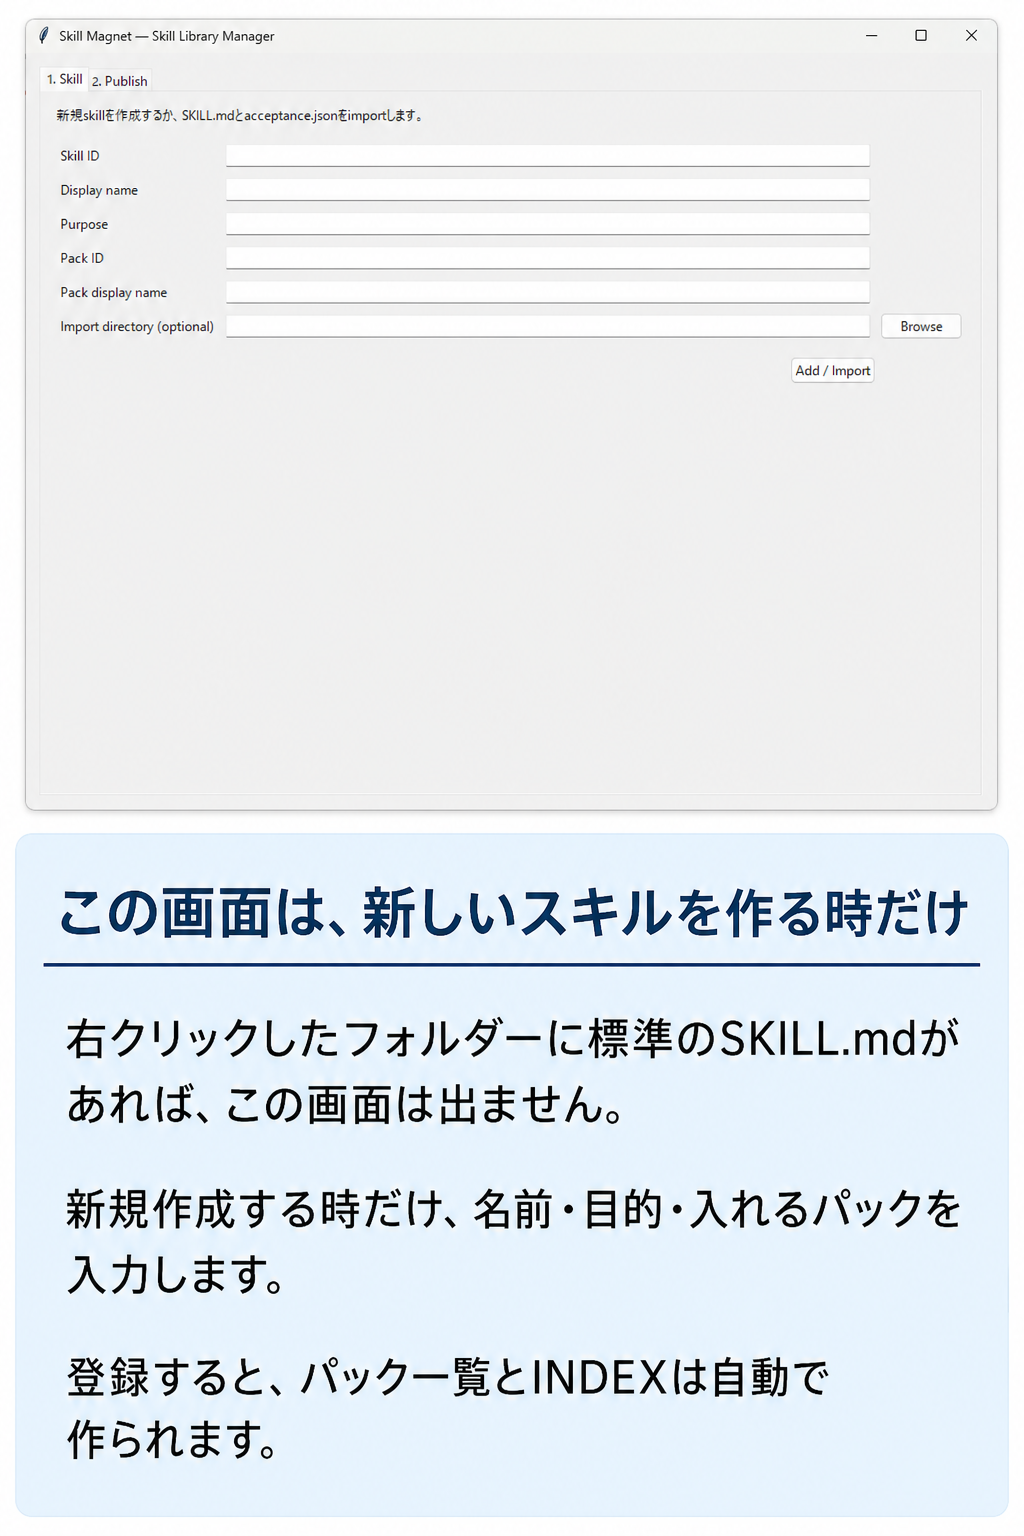
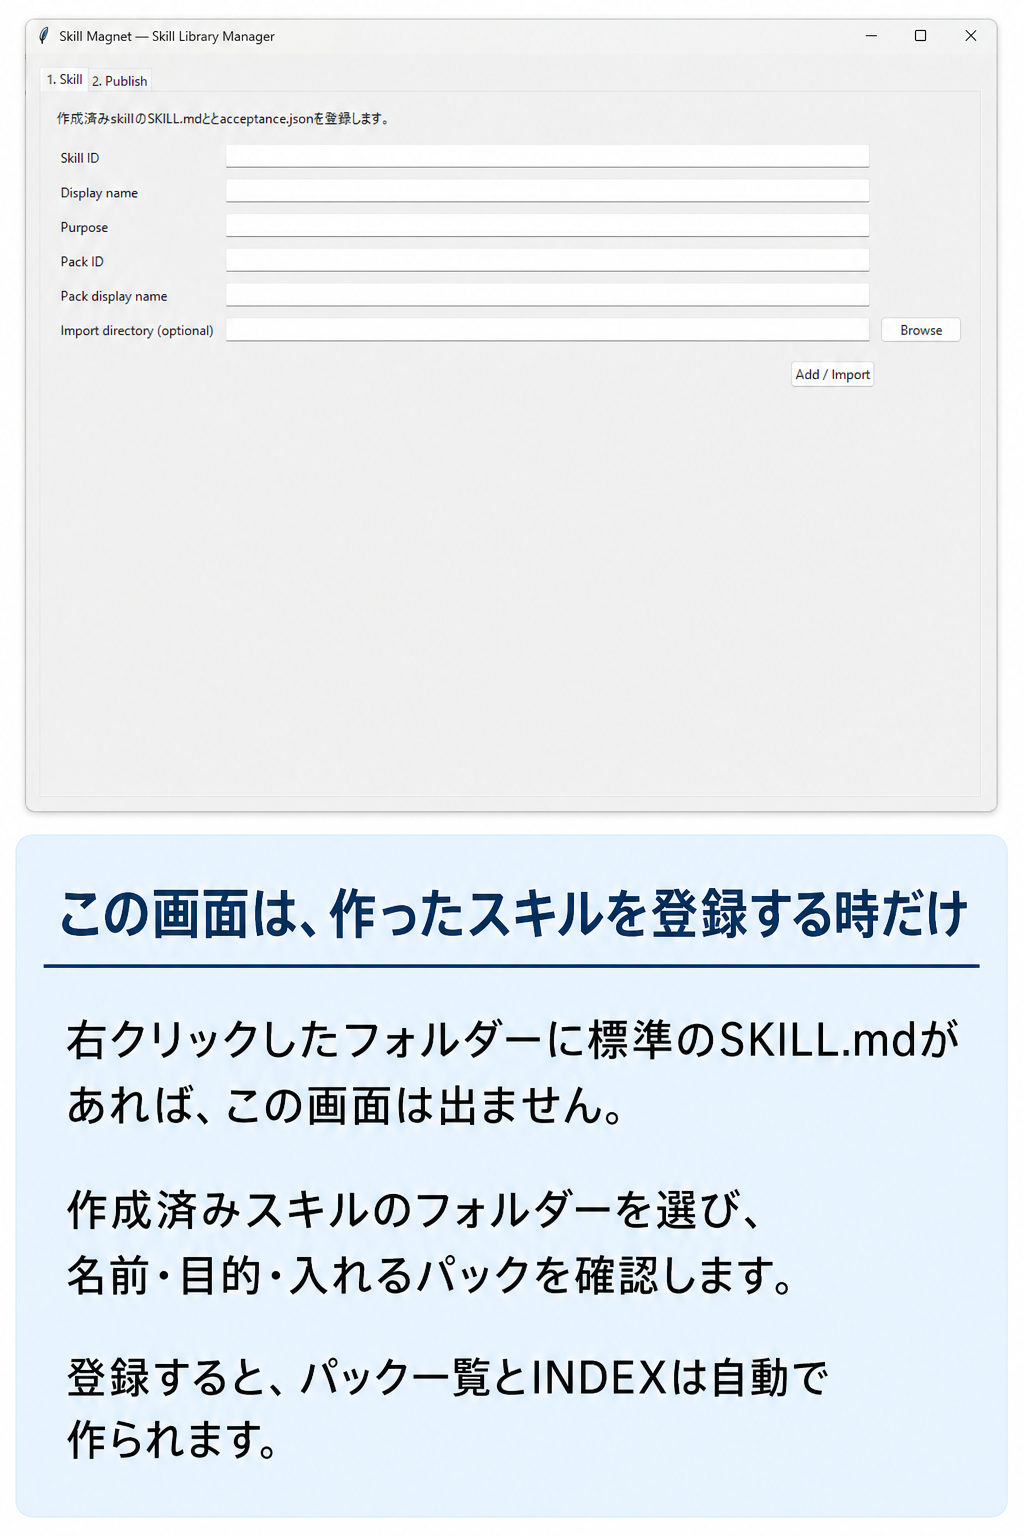
Clarify skill registration workflow

diff --git a/src/skill_magnet/library_ui.py b/src/skill_magnet/library_ui.py
@@ -154,7 +154,7 @@ def show_library_manager(
         show_error(exc)
 
     page = pages[0]
-    ttk.Label(page, text="新規skillを作成するか、SKILL.mdとacceptance.jsonをimportします。").grid(
+    ttk.Label(page, text="作成済みskillのSKILL.mdとacceptance.jsonを登録します。").grid(
         row=0, column=0, columnspan=3, sticky="w", pady=(0, 12)
     )
     row(page, 1, "Skill ID", skill_id)

diff --git a/docs/skill-library-manager-implementation-report-2026-09-02.md b/docs/skill-library-manager-implementation-report-2026-09-02.md
@@ -23,7 +23,7 @@ status: implemented
 - macOS Finderではクイックアクション`Skill Magnet`の共通画面内にある`Skill Library Manager`から開く。
 - GUIの作業用repositoryは製品state内で自動作成・再利用し、保存先、repository名、`Draft directory`を入力させない。右クリックしたfolderに`SKILL.md`がある場合だけskill import候補へ事前入力する。画面を開くだけではpublishもactivateも実行しない。
 - `python -m skill_magnet library ui`でコンパクトなSkill Library Managerを開く。
-- 標準構成のスキルfolderを右クリックした通常flowでは自動import後にPublishだけを表示する。新規作成時だけSkill、Publishの2画面とする。repository、catalog/INDEX、validation、preview、activationの独立画面は設けず、起動・登録・Publish画面内で処理する。
+- 標準構成の作成済みスキルfolderを右クリックした通常flowでは自動import後にPublishだけを表示する。作成済みskillを手動登録する時だけSkill、Publishの2画面とする。repository、catalog/INDEX、validation、preview、activationの独立画面は設けず、起動・登録・Publish画面内で処理する。
 - OSは実行環境から自動判定し、利用者へ選択させない。構成不備、URL不備、validation失敗は操作時のエラーダイアログで停止する。
 - 現在の設定にrepository URLが一意に存在する既存ユーザーには、そのURLをPublish画面へ自動表示する。複数候補は誤選択防止のため自動補完しない。
 - headless/運用用途として`init`、`add`、`validate`、`prepare`、`publish`、`verify-merged`、`activate`、`status`も提供する。
@@ -113,7 +113,7 @@ status: implemented
 | `python -m unittest discover -s tests` | 152 PASS、1 environment-dependent skip |
 | `python -m pip wheel . --no-deps` | PASS、`library_manager.py`と`library_ui.py`のwheel収録を確認 |
 | `git diff --check` | PASS |
-| 実GUIスモーク | PASS、標準folder選択時にPublishだけ、新規作成時にSkillとPublishを表示 |
+| 実GUIスモーク | PASS、標準folder選択時にPublishだけ、作成済みskillの手動登録時にSkillとPublishを表示 |
 
 自動試験ではローカルbare Git remoteを用い、isolated clone、commit、direct push、別cloneからのremote blob検証、config activation、retry、menu failure rollbackまで実行した。GitHub PR経路は`gh pr create`／`gh pr view`へ接続済みであり、実repositoryでは既存GitHub credentialとbranch protectionが最終権限境界になる。
 
